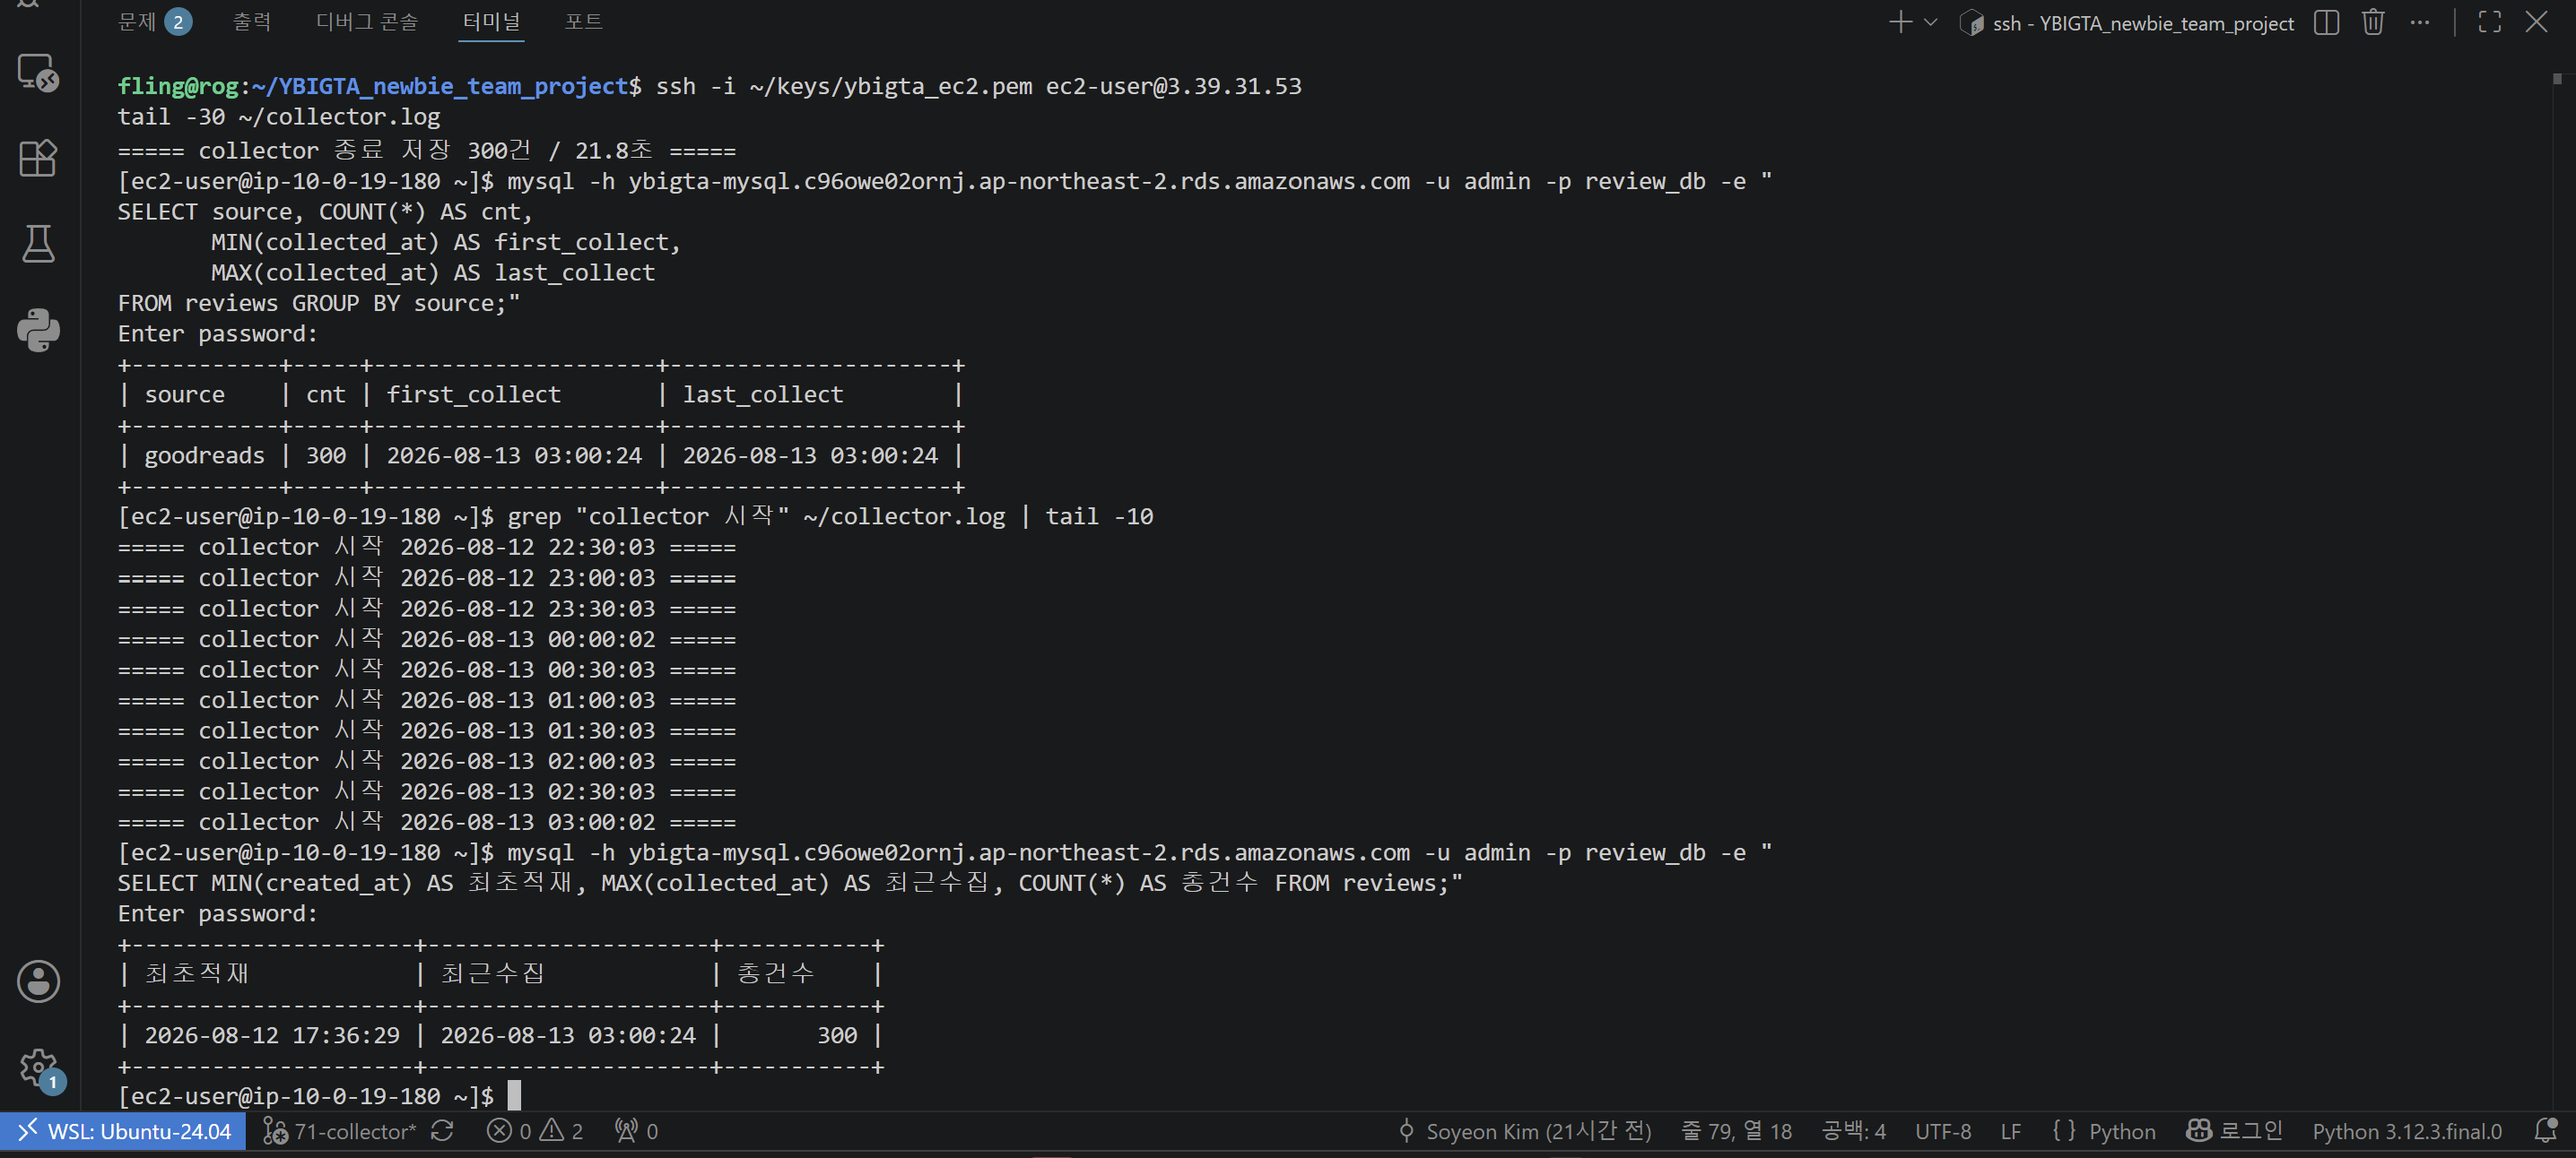
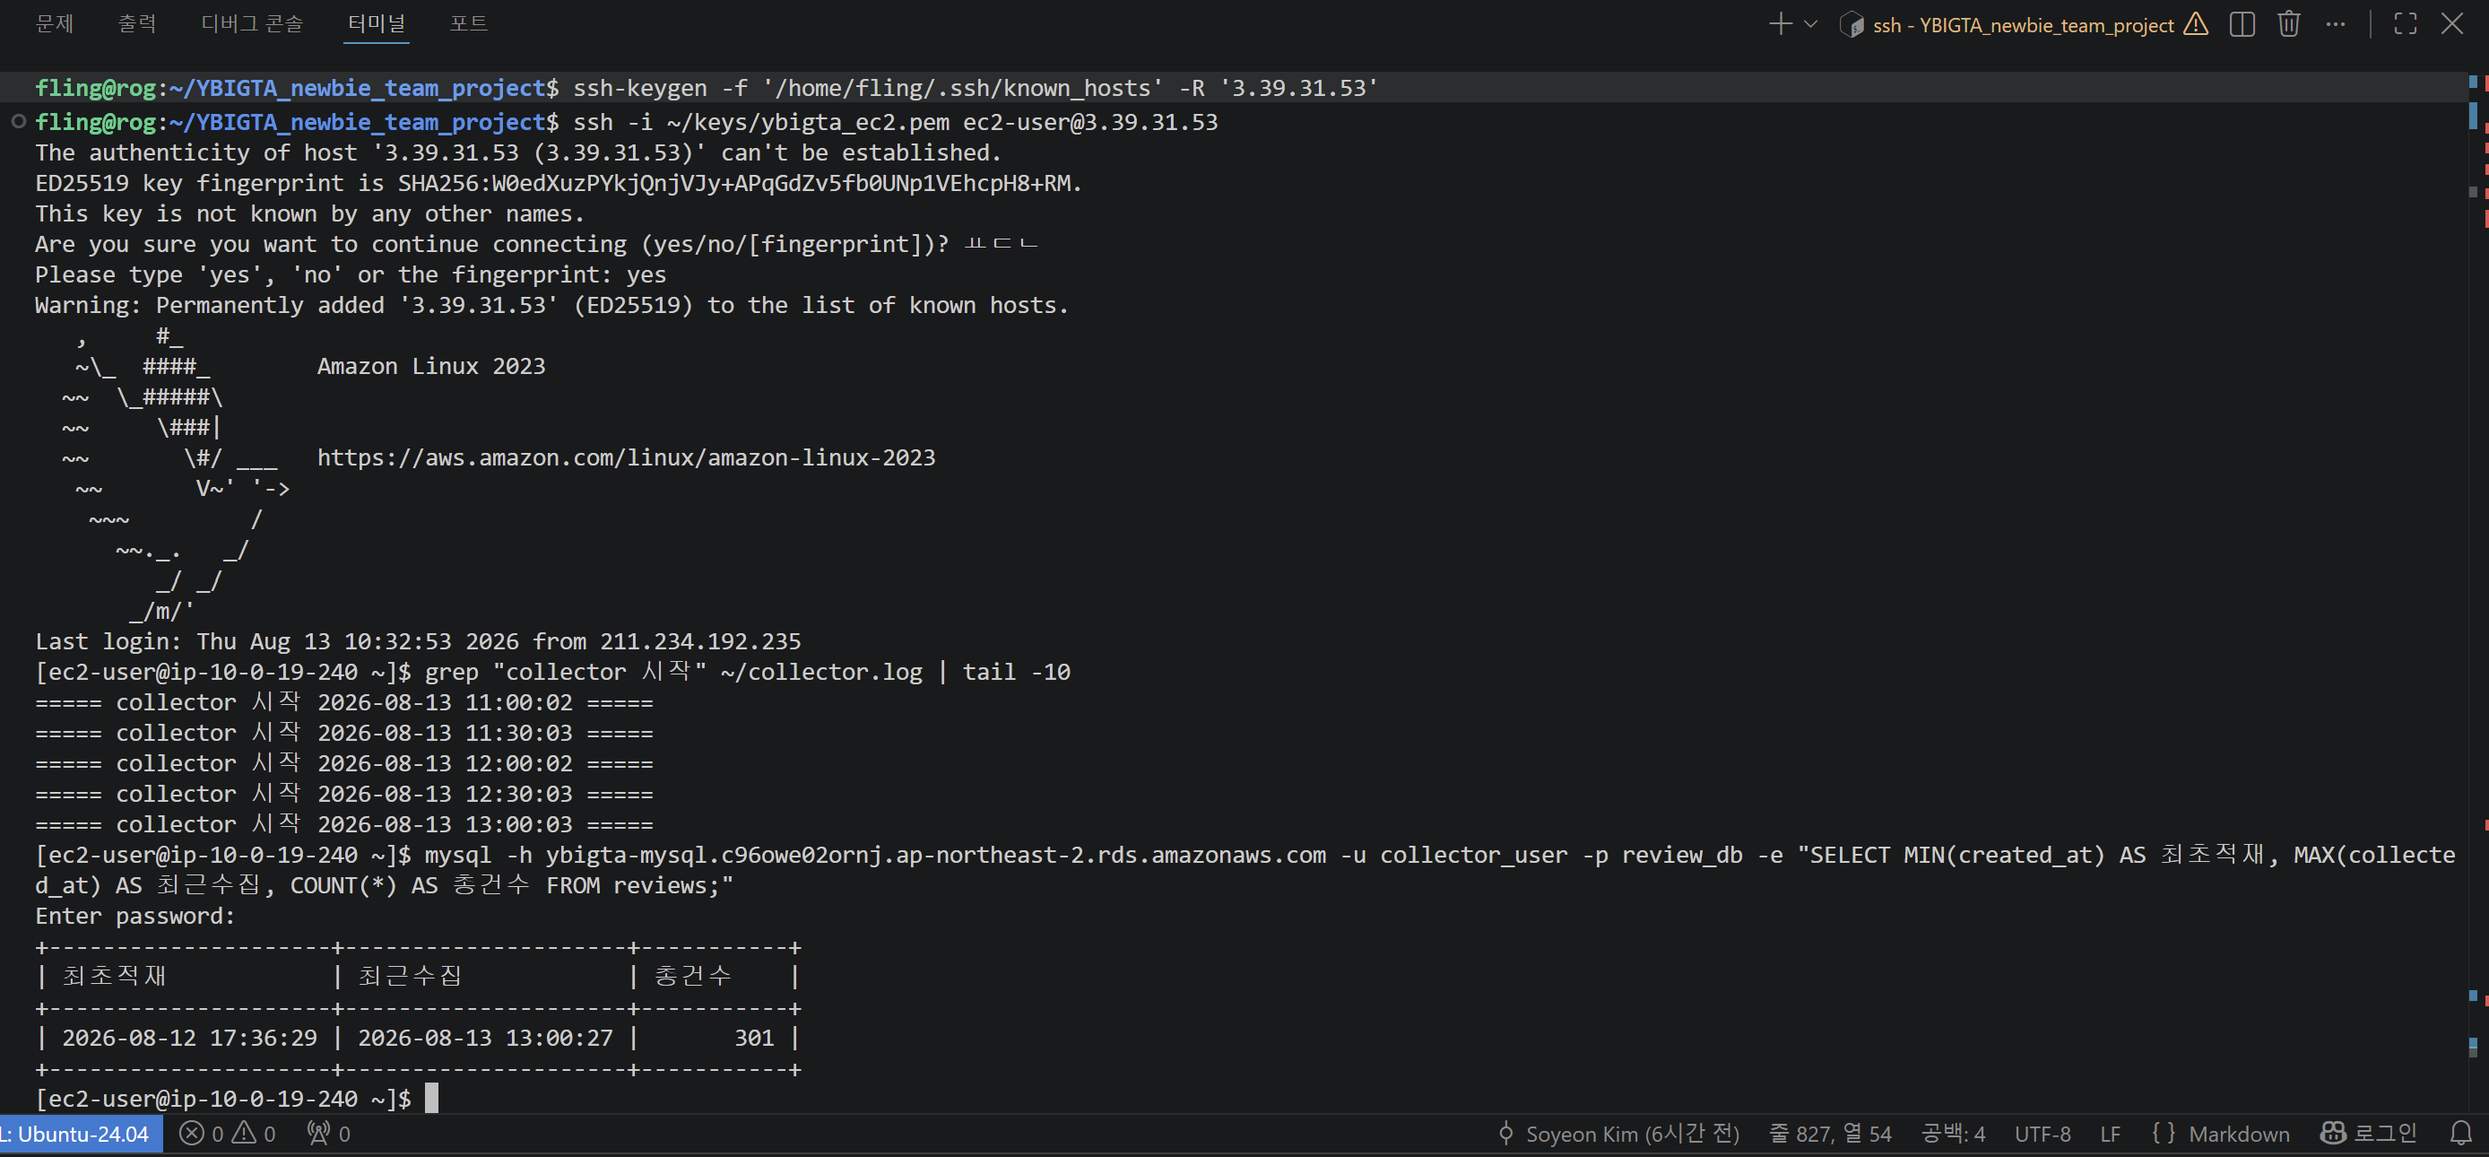
docs: Architecture Diagram 추가 및 자동 갱신 캡처 갱신

diff --git a/README.md b/README.md
@@ -825,3 +825,48 @@ DB 접속 정보와 인증 토큰은 모두 환경변수로 관리하며, 코드
 1. `review_analysis/crawling/` 에 크롤러를 추가한다
 2. `collector/main.py`의 `transform()`이 반환하는 dict 형식(`source`, `review_key`, `stars`, `review`, `review_date`, `sentiment_label`)에 맞춰 매핑한다
 3. `SOURCE` 상수만 새 출처명으로 지정하면 동일한 upsert 로직이 그대로 재사용된다
+
+## Architecture
+
+```
+┌─────────────────────────────┐
+│ Data Source                 │
+│ Goodreads GraphQL API       │
+└──────────────┬──────────────┘
+               │ 30분 주기 자동 수집 (cron)
+               ▼
+┌─────────────────────────────┐
+│ AWS Data Collector          │
+│ EC2 (Amazon Linux 2023)     │
+│ collector/main.py           │
+└──────────────┬──────────────┘
+               │ upsert (collector_user)
+               ▼
+┌───────────────────────────────────────────┐
+│ AWS VPC  ybigta-vpc (10.0.0.0/16)         │
+│                                           │
+│  Public Subnet                            │
+│  ┌─────────────────────────────────┐      │
+│  │ EC2 : MCP Server (Docker)       │◀─────┼── Vercel
+│  │  Nginx Reverse Proxy → :8000    │      │   (Bearer Auth)
+│  │  tools → services → repositories│      │
+│  │  SG: mcp-sg                     │      │
+│  └───────────────┬─────────────────┘      │
+│                  │ 3306 (mcp_user, R/O)   │
+│  Private Subnet  ▼                        │
+│  ┌─────────────────────────────────┐      │
+│  │ RDS MySQL 8.4                   │      │
+│  │  Public Access: OFF             │      │
+│  │  SG: rds-sg ← mcp-sg only       │      │
+│  └─────────────────────────────────┘      │
+└───────────────────────────────────────────┘
+               ▲
+               │ MCP Tool Call
+               │
+┌──────────────┴──────────────┐
+│ Vercel / Next.js Data Agent │
+│  app/api/chat/route.ts      │
+└──────────────┬──────────────┘
+               ▼
+             사용자
+```
